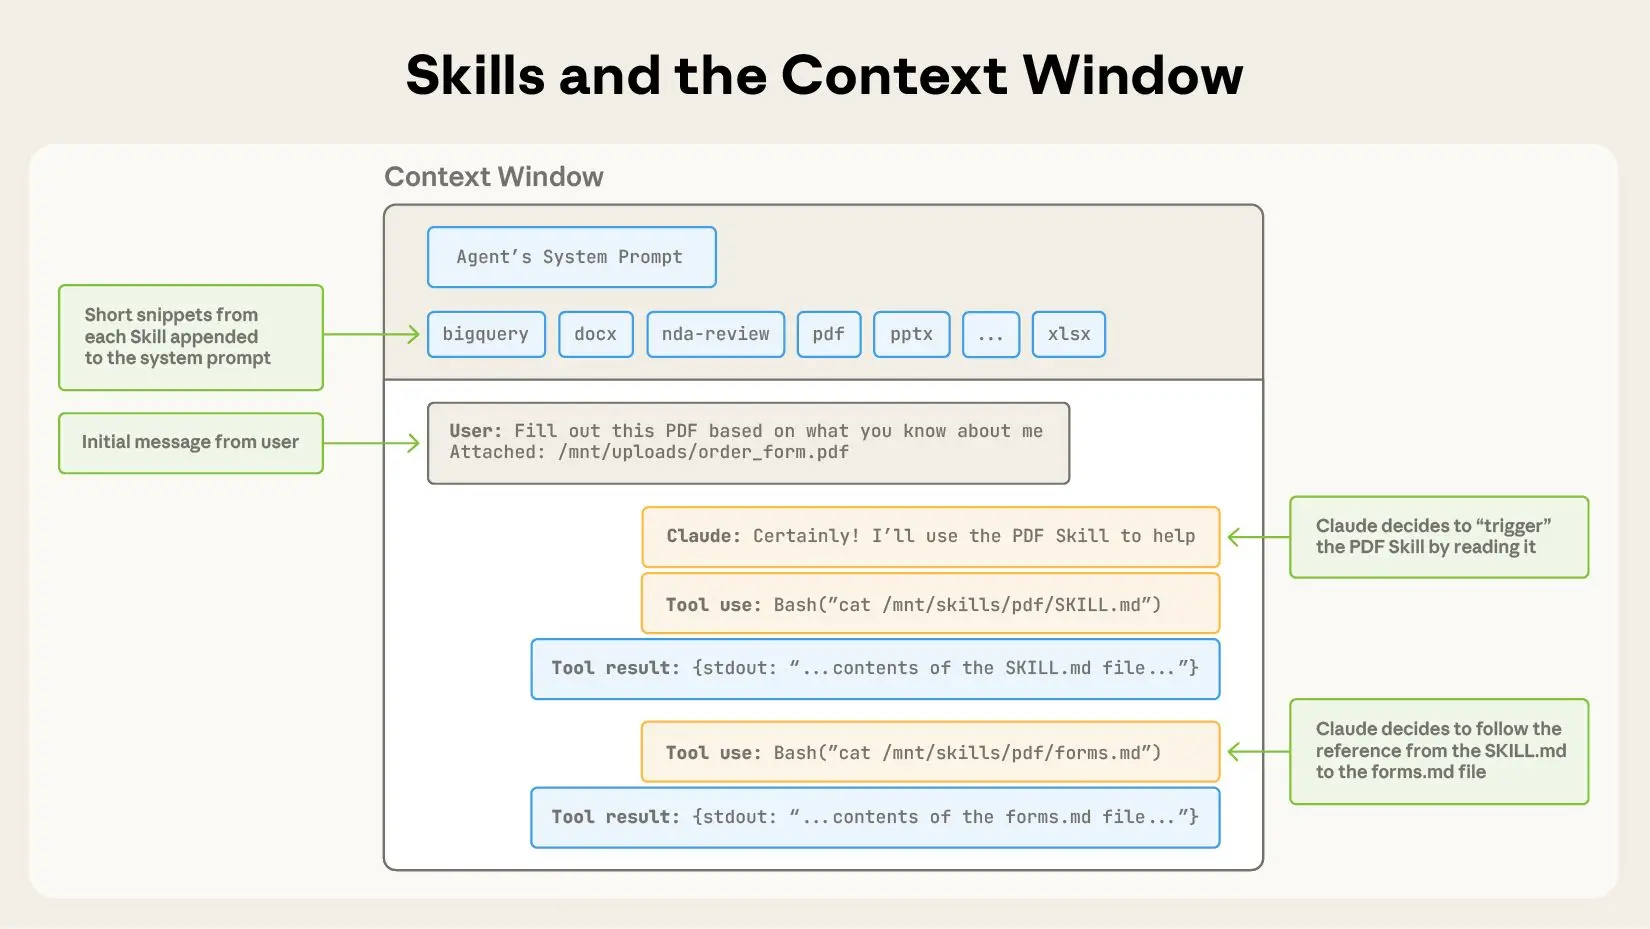
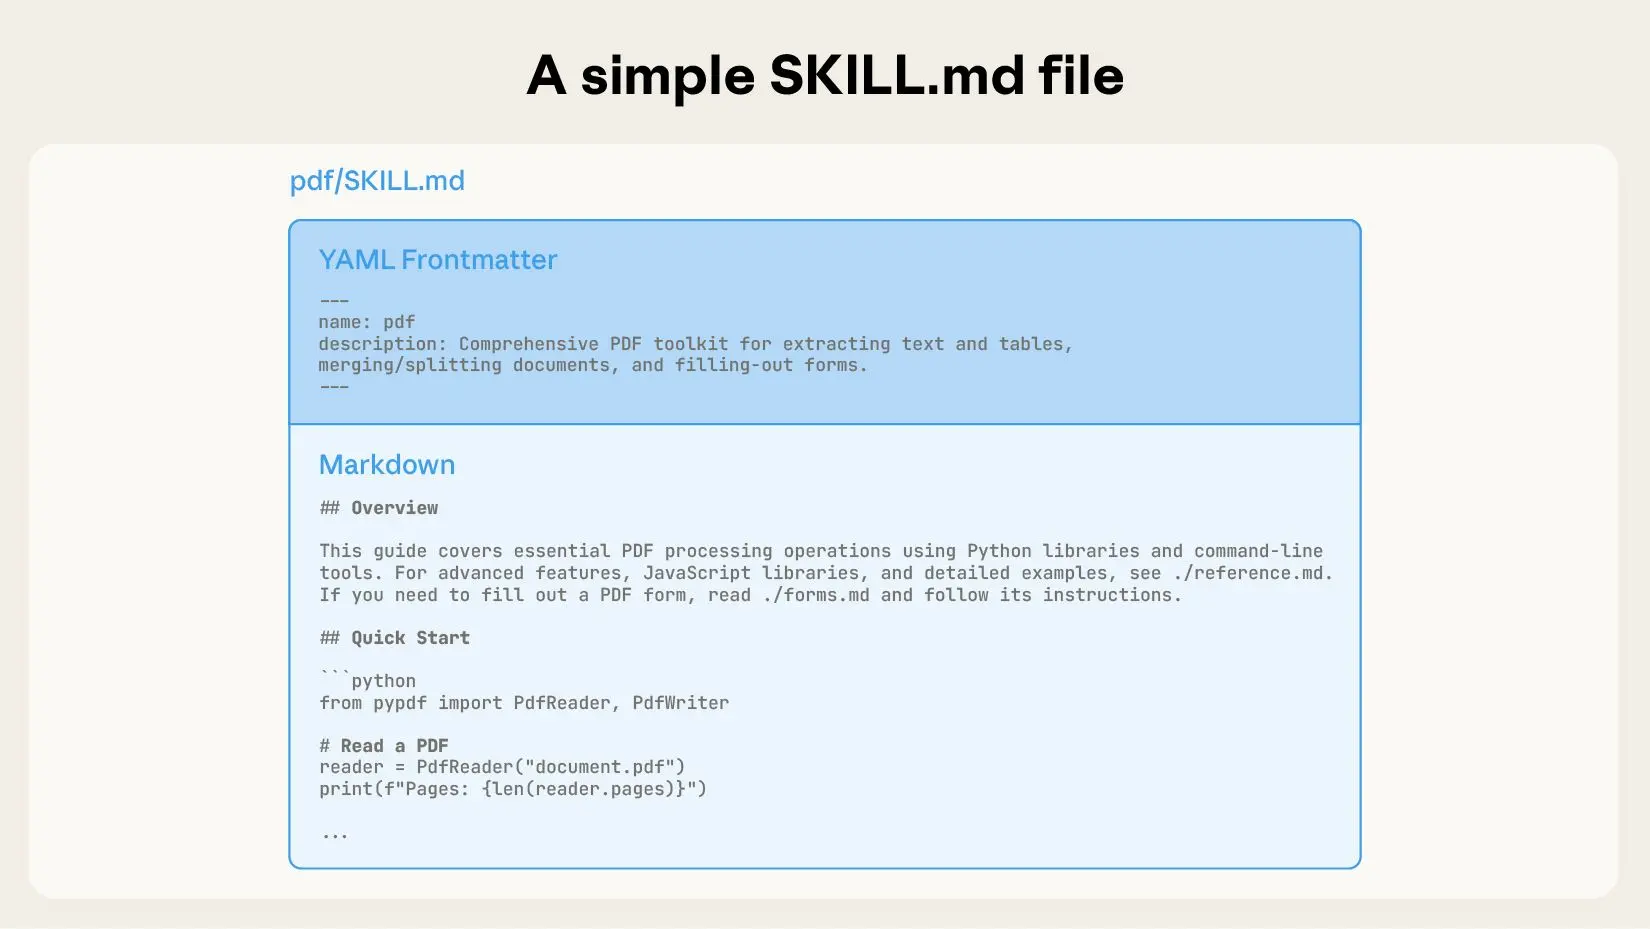
Add progressive disclosure documentation and skills overview images

Changed region(s): [[0.0309, 0.1561, 0.9891, 0.9365], [0.2473, 0.0624, 0.7727, 0.1249]]

diff --git a/README-9Skills.md b/README-9Skills.md
@@ -49,3 +49,28 @@ can u make sure that the logo is according to anthropic branding styles for proj
     ...
 
 ```
+
+### 漸進式揭露（Progressive Disclosure）
+
+Skills 的核心設計原則，分為三個層次：
+
+第一層：僅將每個 Skill 的名稱和描述預載入系統提示，讓 Claude 判斷何時需要使用
+第二層：當 Claude 認為某個 Skill 相關時，才讀取完整的 SKILL.md
+第三層：Skill 可包含額外檔案，Claude 只在需要時才進一步導航和讀取 (例如 PDF Skill 中的 forms.md)
+
+### Skills 的設計是按需載入的，避免不必要地佔用上下文窗口的空間。
+
+- Agent 啟動時，只會將每個已安裝 Skill 的 name 和 description 預載入系統提示中。 claude這是第一層的漸進式揭露——提供剛好足夠的資訊讓 Claude 判斷何時該使用哪個 Skill，而不會把所有內容都塞進上下文。
+
+- 只有當 Claude 判斷某個 Skill 與當前任務相關時，才會透過 Bash 工具讀取完整的 SKILL.md 到上下文中。而如果 Skill 還包含額外的參考檔案（例如 PDF Skill 中的 forms.md），Claude 也只會在需要時才選擇導航和讀取這些額外檔案。 
+
+- 所以整個設計是按需載入的，避免不必要地佔用上下文窗口的空間。
+
+## Custom Skills with Auxiliary Scripts
+
+```bash
+claude
+
+# In Claude Code - installs the entire plugin with all skills and agents
+/plugin marketplace add mhattingpete/claude-skills-marketplace
+
